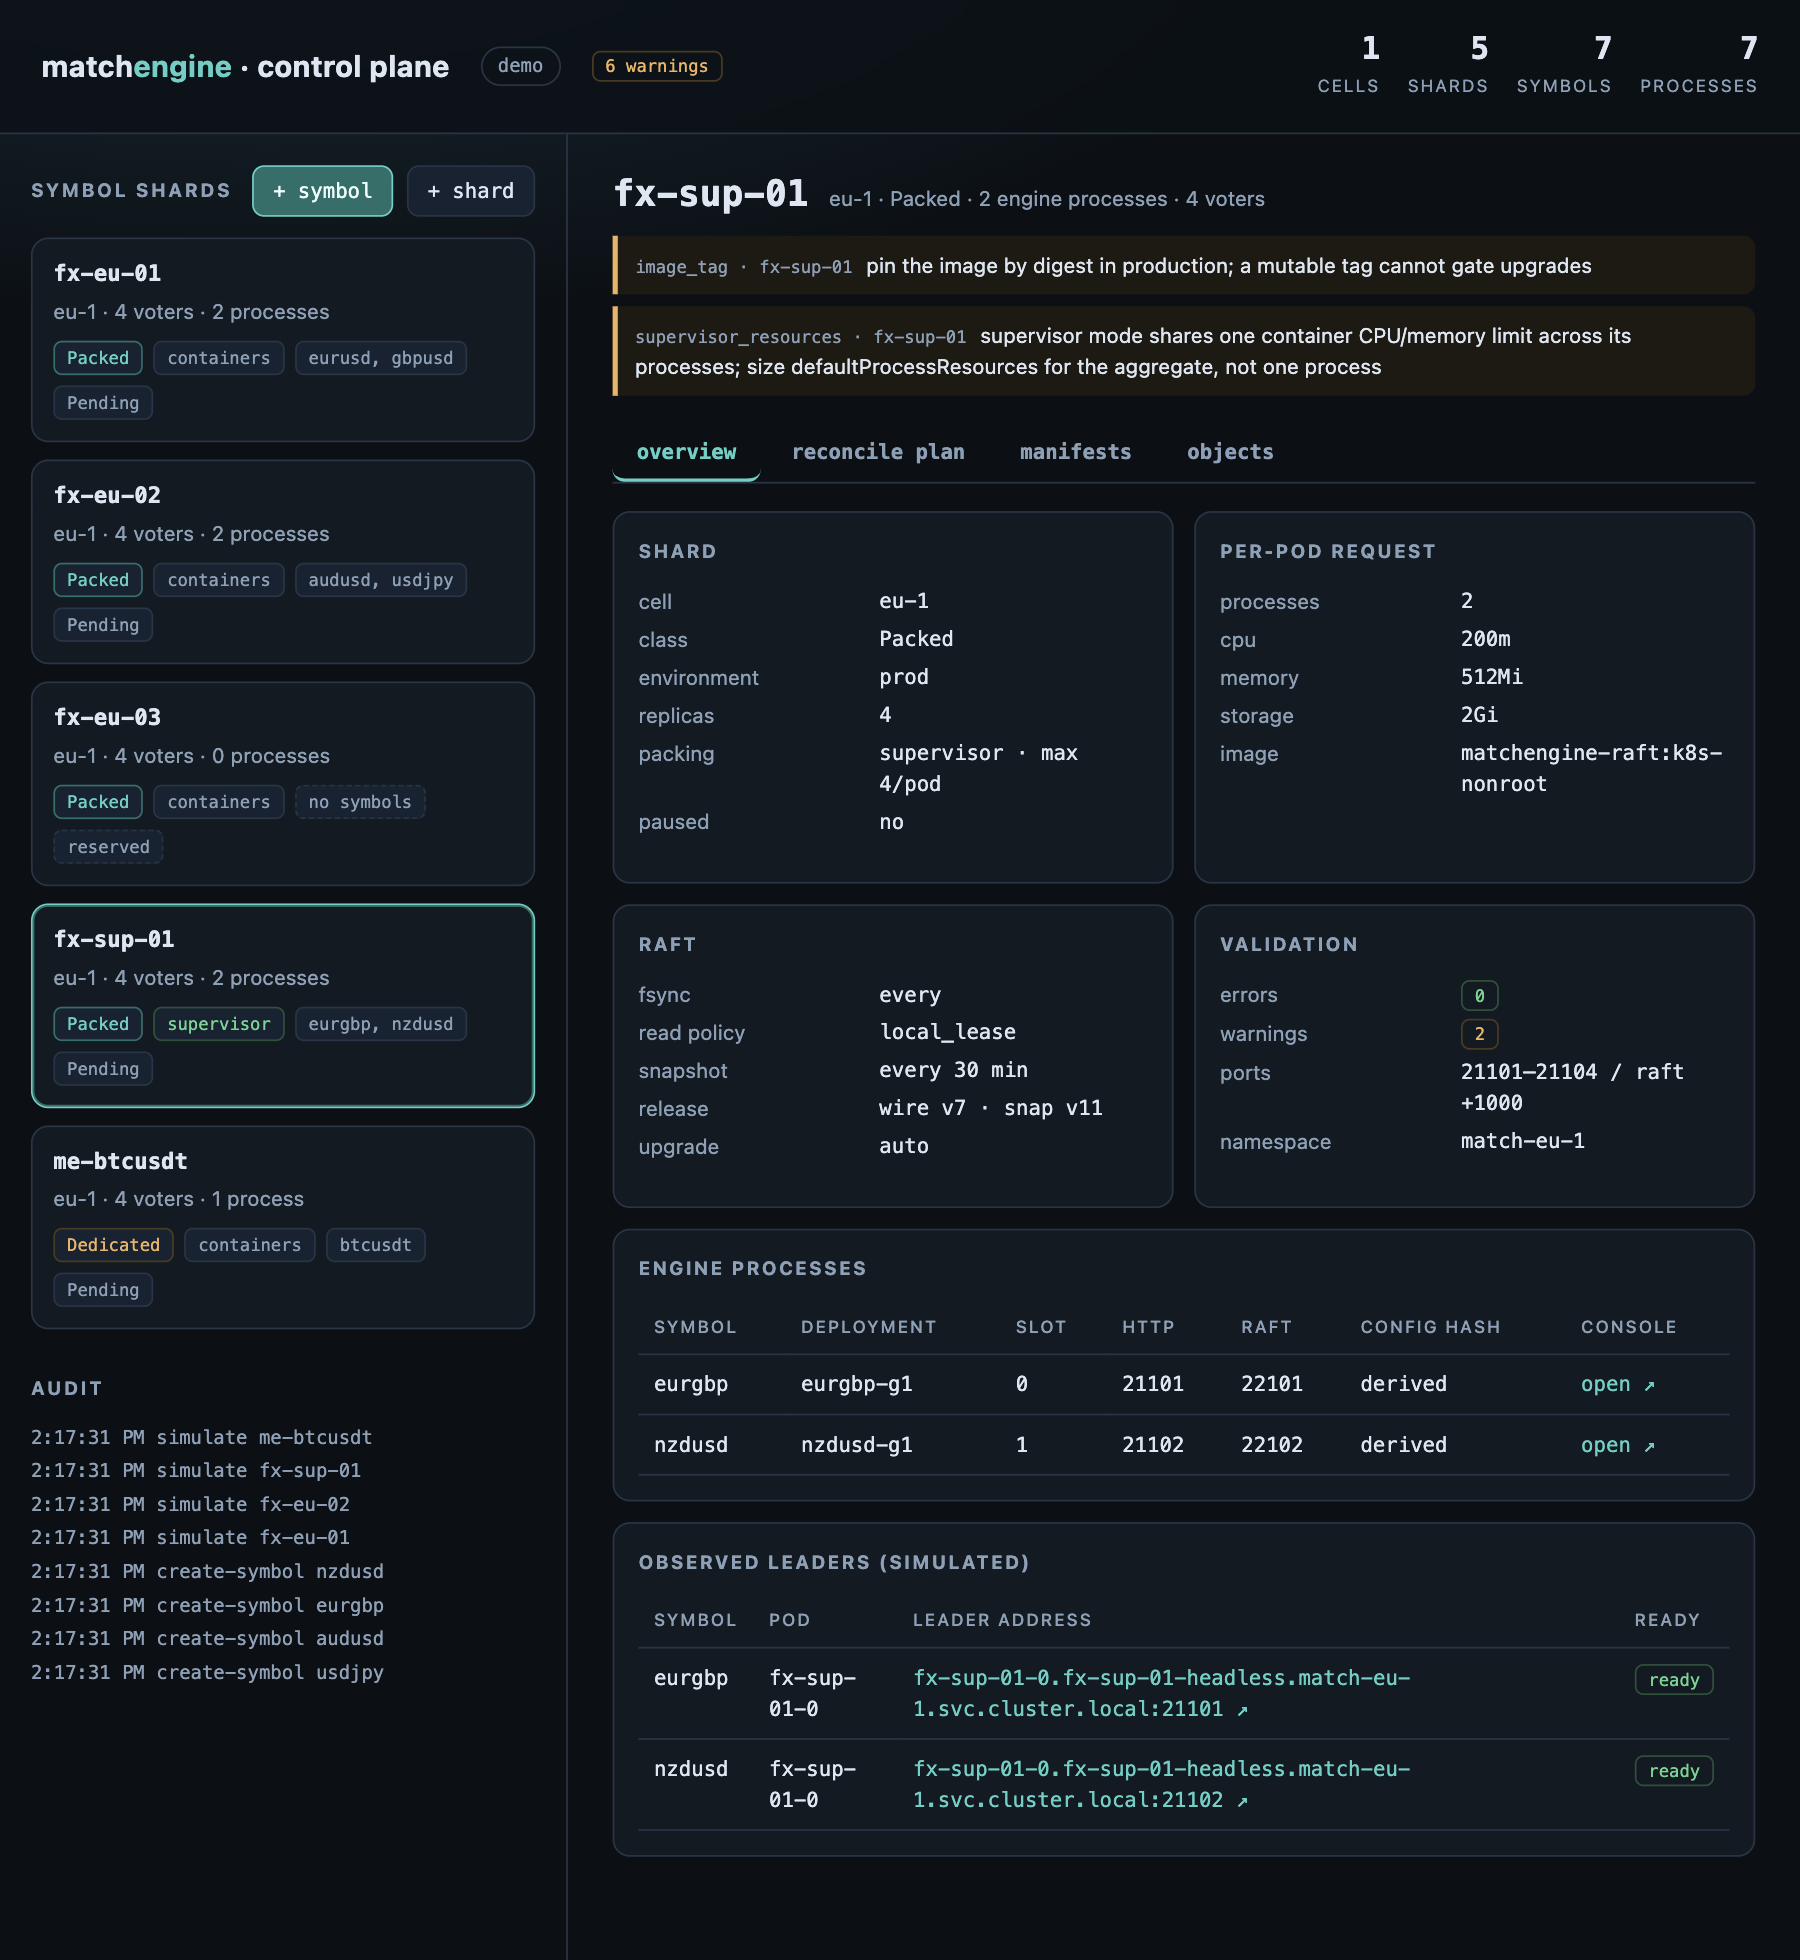
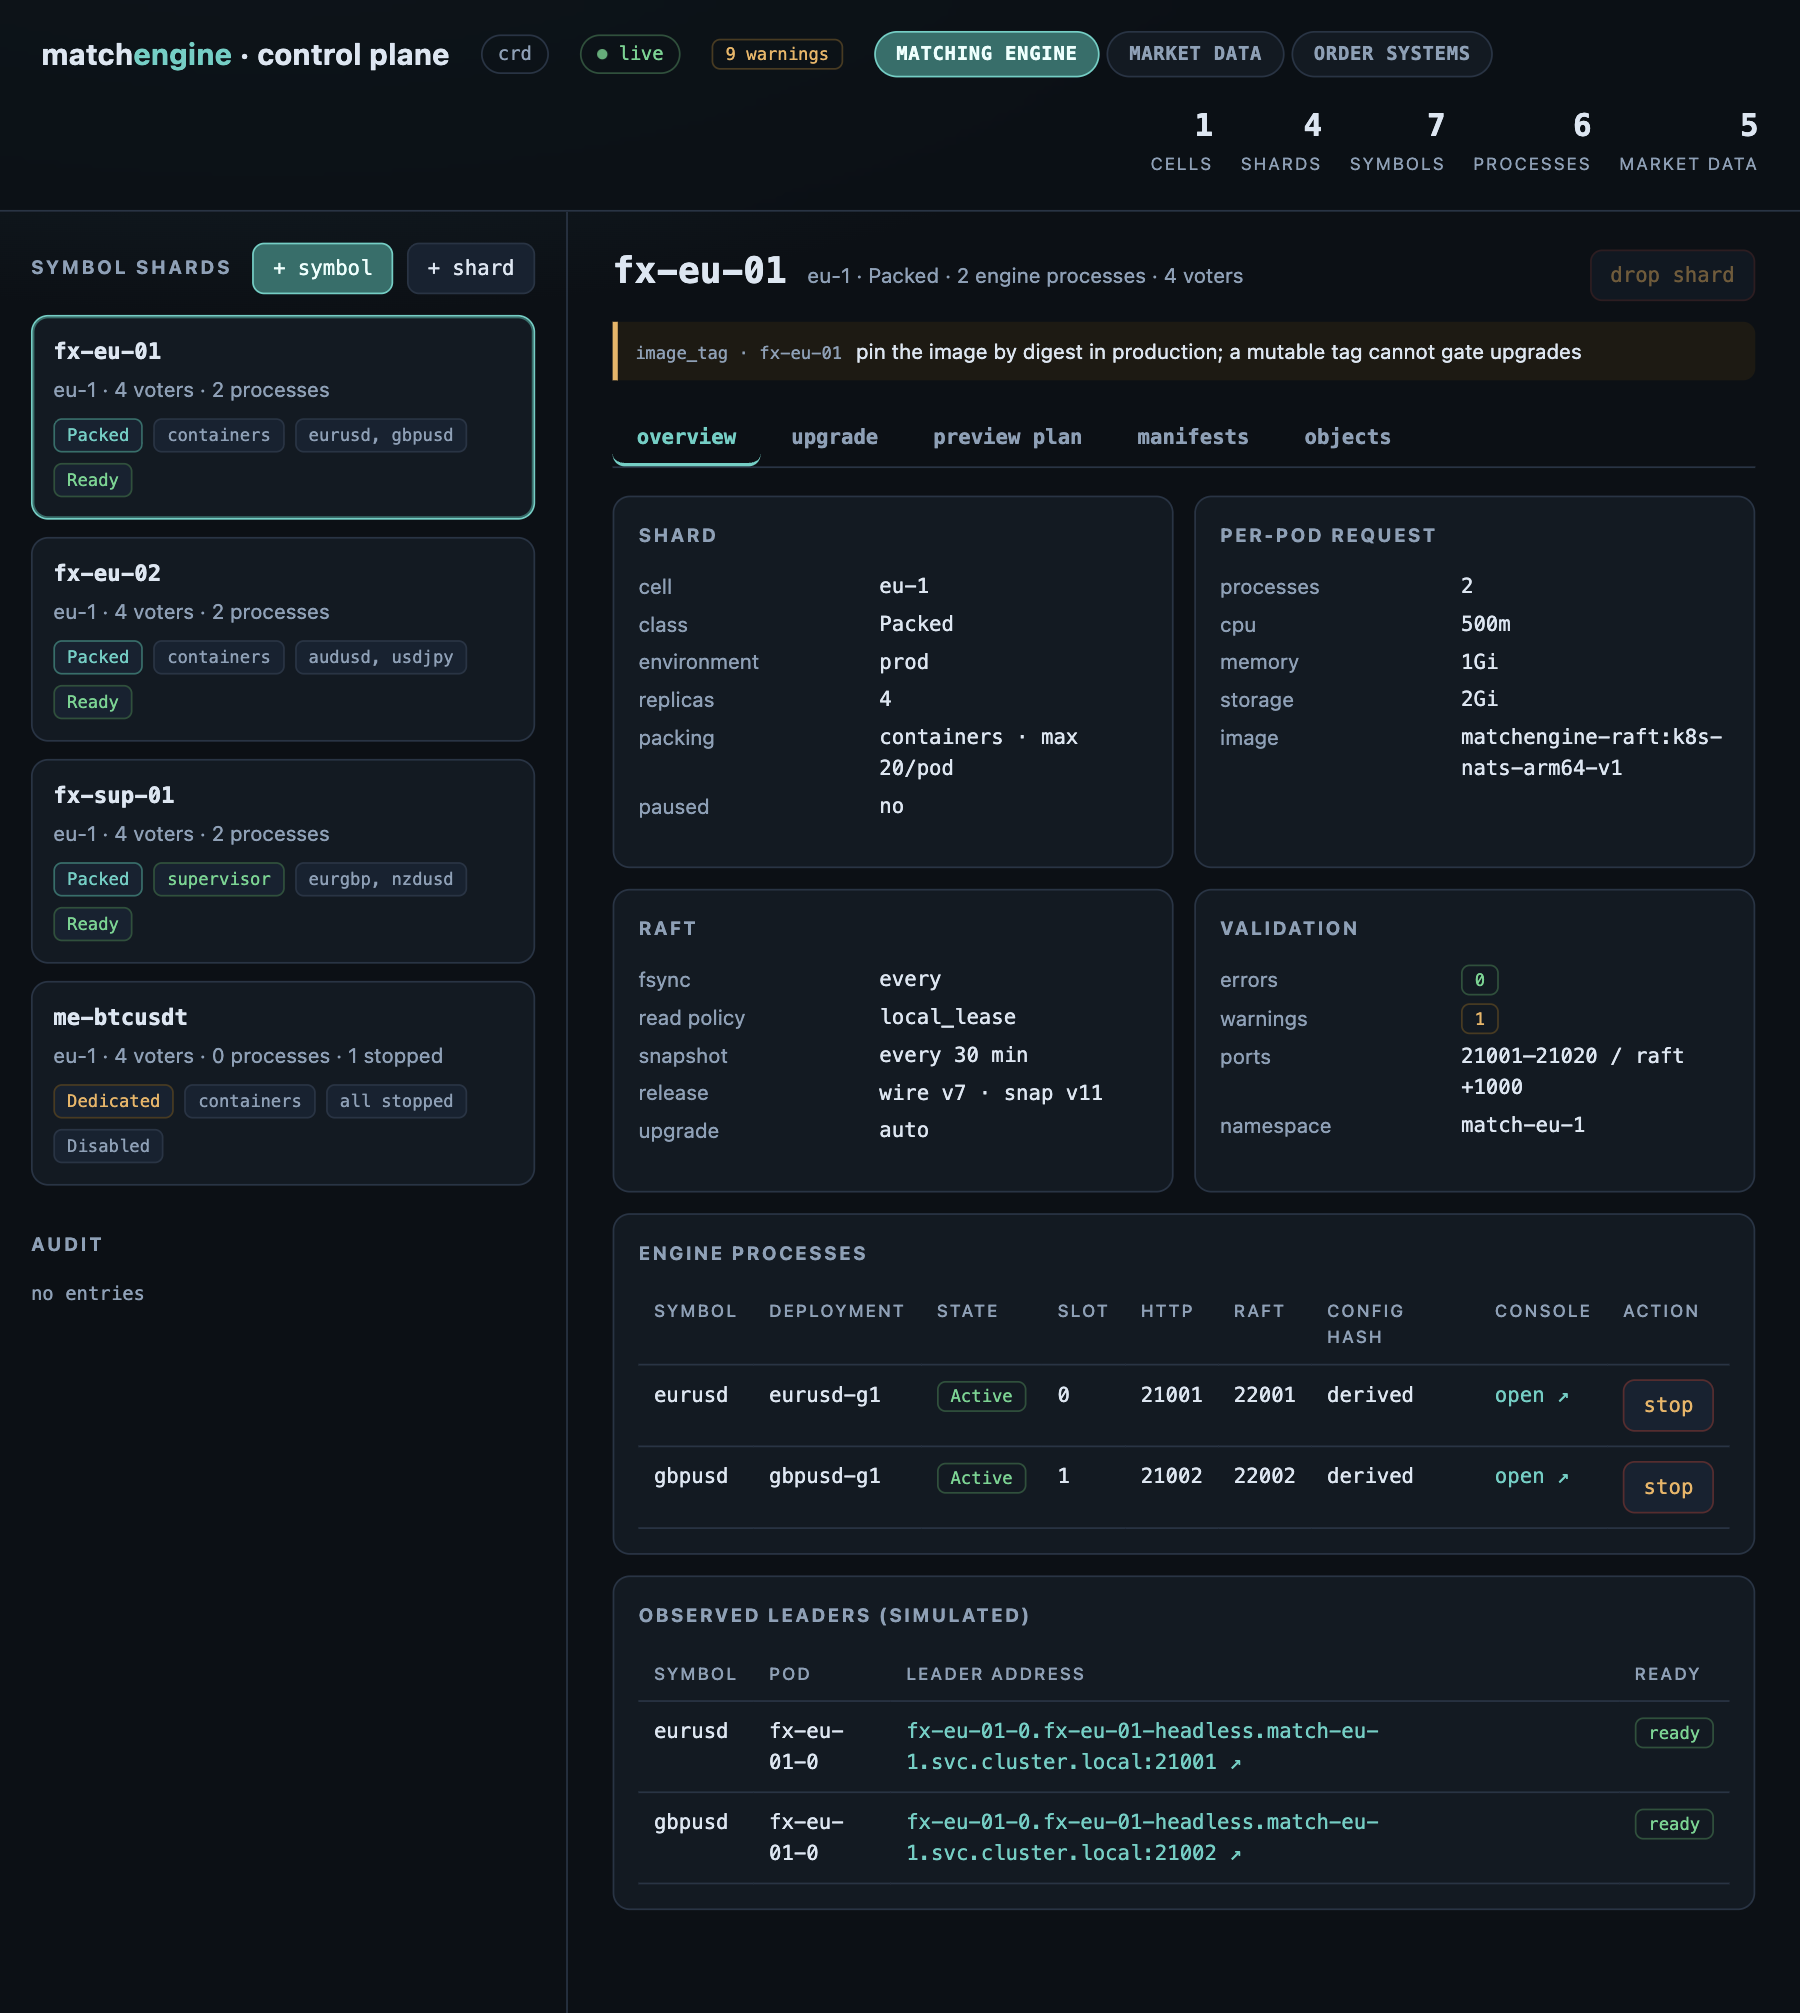
docs: refresh README screenshots from the live OrbStack demo
Recapture the demo order desk (EUR/USD, seven targets, economics panel), the market-data WebSocket page (606 frames, depth, 1s chart, 40 trades) and the control-plane matching-engine view (live fx-eu-01 with eurusd and gbpusd Ready). Update the manager-GUI caption for the screenshot's current matching-engine view.

diff --git a/README.md b/README.md
@@ -279,9 +279,10 @@ of single-symbol engines and their four-voter process instances across shards an
 
 ![Kubernetes control plane manager GUI](./docs/kubernetes-control-plane.png)
 
-The manager GUI: shard catalog, supervisor/containers packing modes, validation, reconcile plan,
-manifests, audit and engine-console links. The selected `fx-sup-01` shard is supervisor-mode and
-hosts `eurgbp` and `nzdusd`; both were added without restarting the running engines.
+The manager GUI's **matching engine** view: the live `fx-eu-01` shard hosts `eurusd` and
+`gbpusd`, both Ready, with per-pod requests, placement and release validation, per-process console
+links and observed leaders. The manager also has **market data** (terminal and fast WebSocket
+tiers) and **order systems** (user-ID shards, Demo order desk links and an image picker) views.
 
 ## 🔒 Security and deployment boundary
 
